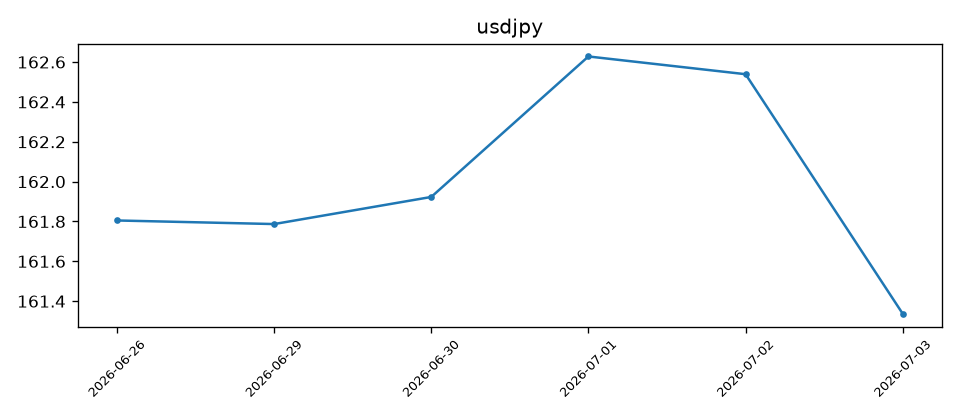
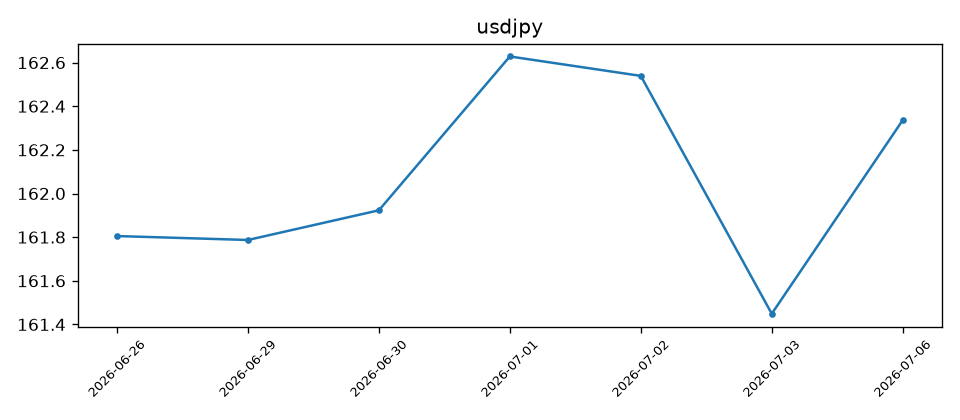
Automated update: 2026-07-06

diff --git a/output/index.html b/output/index.html
@@ -3,7 +3,7 @@
 <head>
 <meta charset="UTF-8">
 <meta name="viewport" content="width=device-width, initial-scale=1.0">
-<title>マーケットダッシュボード - 2026-07-05 08:30</title>
+<title>マーケットダッシュボード - 2026-07-06 12:27</title>
 <style>
   body { font-family: -apple-system, "Hiragino Sans", "Yu Gothic", sans-serif; max-width: 960px; margin: 2rem auto; padding: 0 1rem; background: #f7f7f8; color: #1a1a1a; }
   h1 { font-size: 1.5rem; }
@@ -19,29 +19,30 @@
 </head>
 <body>
   <h1>マーケットダッシュボード</h1>
-  <p class="meta">生成日時: 2026-07-05 08:30</p>
+  <p class="meta">生成日時: 2026-07-06 12:27</p>
 
   <div class="card">
     <h2>分析コメント</h2>
     
-      <p class="meta">2026-07-05 (claude-opus-4-8)</p>
+      <p class="meta">2026-07-06 (claude-opus-4-8)</p>
       <p class="comment"># 本日の市場分析コメント
 
 ## 日経平均株価
-本日(7月3日)の日経平均は**69,744円**で取引を終え、前日比で約+1,011円(+1.47%)の反発となりました。前日(7月2日)には70,000円台から68,733円まで大きく下落しましたが、本日は買い戻しが優勢となり、水準を回復した形です。
+本日(7月6日)の終値は**69,737円**と、前営業日比でほぼ横ばい(-6円程度)の推移となりました。直近の値動きを振り返ると、7月1日に**70,474円**まで上昇して高値圏をつけた後、7月2日には**68,733円**まで約1,740円の急落を記録しています。その後、7月3日にかけて**69,744円**まで反発し、本日はその水準を維持する形で落ち着いた展開となっています。
 
-直近30日を振り返ると、6月末にかけて7万円台に乗せた後、7月1日に**70,475円**の高値を付けています。その後の調整を挟みつつも、7万円前後での高値圏での攻防が続いている状況が見て取れます。
+70,000円の大台を挟んだ攻防が続いており、月初の乱高下を経て、目先は方向感を探る調整局面に入っている様子がうかがえます。
 
-## 為替(ドル円)
-ドル円は本日**161.34円**で、前日の162.54円から約1.2円の円高方向への動きとなりました。7月1日に162.63円まで円安が進んだ後、足元では円が買い戻される展開となっています。
+## ドル円相場
+本日のドル円は**162.34円**と、前営業日(7月3日:161.45円)から約90銭の円安・ドル高方向に振れました。この30日間では概ね**161円台〜162円台後半**のレンジ内で推移しており、7月1日には**162.63円**まで円安が進む場面も見られました。
 
-## 両者の関連性
-本日は「円高進行」と「株価上昇」が同時に観察されました。一般的には円高は輸出関連株の重しとなる場面もありますが、本日については前日の急落からの反発が優勢となり、為替の影響を上回る買いが入ったものとみられます。円高一服・反転が今後も続くかどうかは、株価の方向感を占ううえで注視すべきポイントと考えられます。
+## 市場全体の観察
+- 株式・為替ともに、7月初旬に一時的なボラティリティの高まりが見られましたが、本日は相対的に落ち着いた地合いとなっています。
+- ドル円が円安方向に戻す一方で、日経平均が横ばいにとどまった点は、輸出関連への追い風が限定的であった可能性を示唆しますが、材料の乏しさから様子見姿勢が強まったとも解釈できます。
 
-## 補足
-本日は参照すべき直近のXの投稿が確認できなかったため、市場データのみに基づく客観的な観察に留めています。7万円近辺という高値圏での値動きが続いており、上下いずれの方向にもボラティリティが高まりやすい局面である点に留意が必要です。
+なお、本日は参照可能なXの投稿が確認されなかったため、市場心理に関する定性的な補足は割愛いたします。
 
-※本コメントは市場動向の客観的整理を目的としたものであり、特定の投資行動を推奨するものではありません。</p>
+---
+※本コメントは客観的な市場データに基づく観察であり、特定の投資行動を推奨するものではありません。</p>
     
   </div>
 
